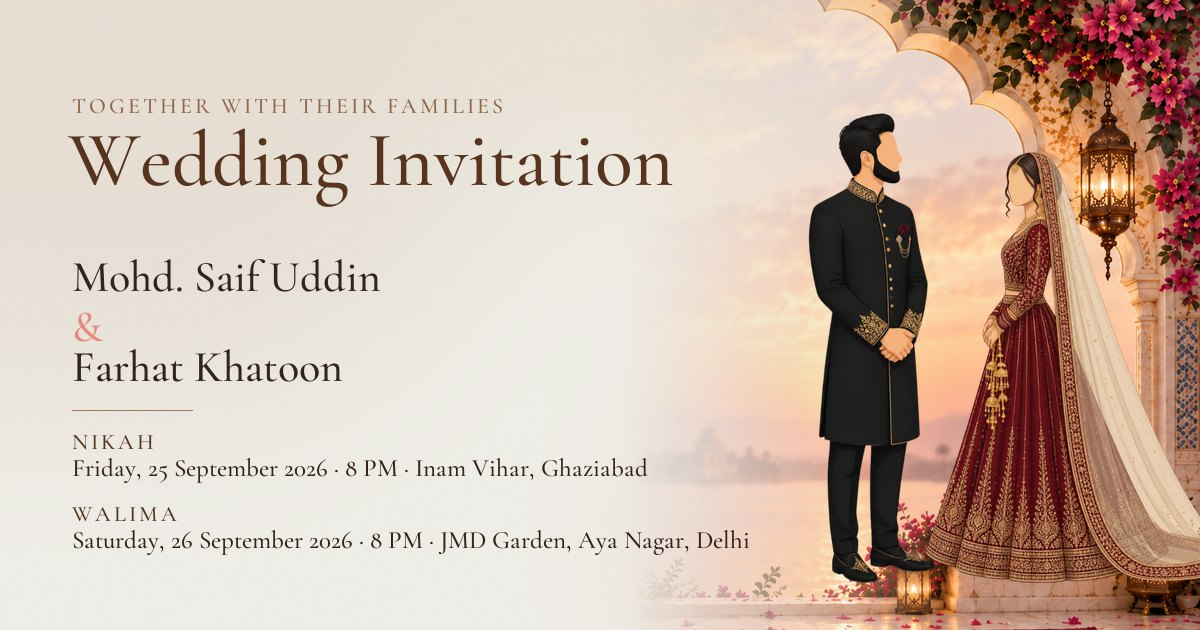
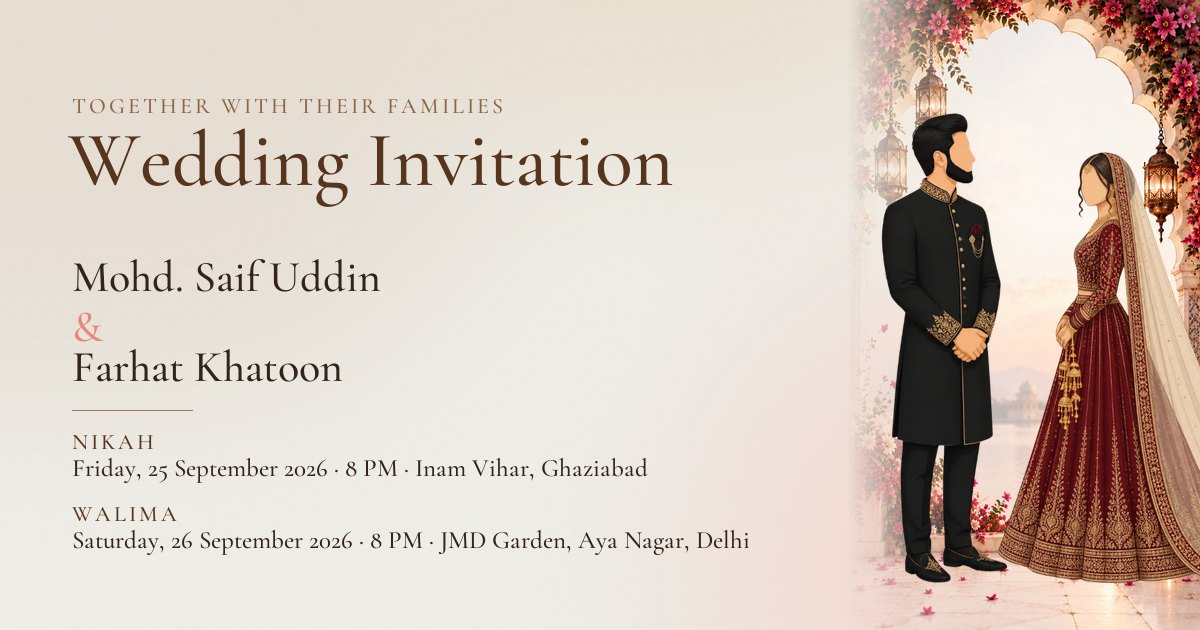
Portrait 9:16 backdrop shown in full; lighter paper overlay
New bg1.png (941x1672) matches the stage ratio, so the whole image shows
on desktop. Overlay softened so the arch and lanterns stay visible behind
the text. Share image regenerated.

diff --git a/components/home/InvitationStage.tsx b/components/home/InvitationStage.tsx
@@ -221,8 +221,8 @@ export function InvitationStage() {
               />
               <div
                 aria-hidden
-                className="absolute inset-x-0 top-0 h-[38%]"
-                style={{ background: "linear-gradient(to bottom, var(--color-paper) 30%, transparent)" }}
+                className="absolute inset-x-0 top-0 h-[42%]"
+                style={{ background: "linear-gradient(to bottom, rgba(245,244,237,0.72) 0%, rgba(245,244,237,0.45) 45%, transparent 100%)" }}
               />
             </motion.div>
           )}
@@ -249,8 +249,8 @@ export function InvitationStage() {
               </div>
               <div
                 aria-hidden
-                className="absolute inset-x-0 top-0 h-[46%]"
-                style={{ background: "linear-gradient(to bottom, var(--color-paper) 40%, transparent)" }}
+                className="absolute inset-x-0 top-0 h-[48%]"
+                style={{ background: "linear-gradient(to bottom, rgba(245,244,237,0.72) 0%, rgba(245,244,237,0.45) 45%, transparent 100%)" }}
               />
             </motion.div>
           )}

diff --git a/content/art.ts b/content/art.ts
@@ -47,10 +47,10 @@ export const art = {
   } satisfies Cutout as Cutout,
   background: {
     src: "/art/bg1.png",
-    width: 1672,
-    height: 941,
-    alt: "Mughal arch balcony at sunset with lanterns and flowers",
-    orientation: "landscape",
+    width: 941,
+    height: 1672,
+    alt: "Marble arch with lanterns and bougainvillea over a lake at sunset",
+    orientation: "portrait",
   } satisfies Backdrop as Backdrop,
 };
 
